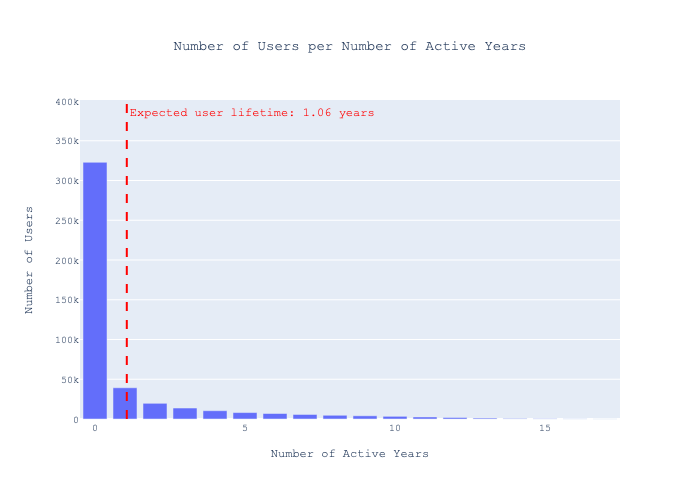
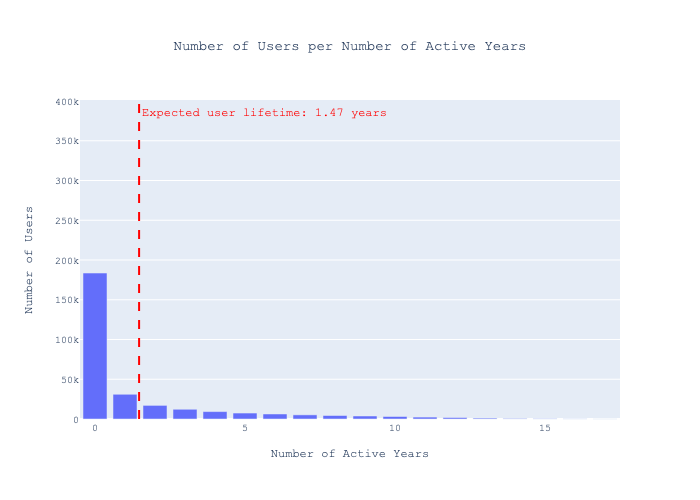
Adding new graphs that take into accound the filtering for the dead/deleted data

diff --git a/_posts/2024-04-02-hn-part-1.md b/_posts/2024-04-02-hn-part-1.md
@@ -6,6 +6,8 @@ published: true
 tags: strategy planning
 image: /assets/images/hn_part_1/author_cum_score_vs_median_score_logscale_lucky.png
 ---
+*UPDATE, 2024-04-09*: I've found it that I didn't filter out that `dead` and `deleted` stories and comments from my analysis. I've updated the analysis accordingly. While there are changes in the numbers and figures, the patterns and observations stand. I've also removed one table related to the second analysis (HN as a competitive platform): 1) it was confusing, 2) it didn't add new information, 3) and with the new data, the categorization bins needed rethinking.
+
 What is the status of the ~18-year-old HN?
 
 Instead of reading the stories, why not just dismantle HN and look under the hood?
@@ -85,7 +87,7 @@ To analyze this, I'll define the following metrics:
 2. Consistency: Determined by the total number of stories a user has posted.
 3. User's score: Instead of using karma, which has shown inconsistencies in HN data (I will discuss this in more detail laer), I'll use the sum of upvotes received by a user's stories as an alternative metric.
 
-Now, examining the correlation between a user's cumulative upvotes and their posting consistency reveals a strong relationship, with an $$ R^{2}=0.78 $$.
+Now, examining the correlation between a user's cumulative upvotes and their posting consistency reveals a strong relationship, with an $$ R^{2}=0.796 $$.
 
 ![nb_of_stories_vs_author_total_score.png](/assets/images/hn_part_1/nb_of_stories_vs_author_total_score.png)
 
@@ -106,13 +108,13 @@ Here's what we can discern:
 2. For scores beyond 1000:
    - Attaining higher scores, especially the top scores, is predominantly a result of sharing a higher number of stories.
 
-While this visual representation is compelling, it's essential to approach it with caution. To further quantify these observations, I categorized the data into three ranges—low, medium, and high—for each dimension and calculated the normalized frequencies as shown in the table below.
+<!-- While this visual representation is compelling, it's essential to approach it with caution. To further quantify these observations, I categorized the data into three ranges—low, medium, and high—for each dimension and calculated the normalized frequencies as shown in the table below.
 
 ![The choice of the bins, for each dimension, was based on the same log jumps: 0, 100, 10K, inf](/assets/images/hn_part_1/Screenshot_2024-04-02_at_08.55.40.png)
 
 The categorization was based on logarithmic intervals: 0, 100, 10K, and beyond.
 
-In the high score category, the data reveals that most users with high scores have achieved this with a medium-to-high number of stories, typically of low impact.
+In the high score category, the data reveals that most users with high scores have achieved this with a medium-to-high number of stories, typically of low impact. -->
 
 *Thus, the data supports the conclusion that for those aiming to "win" at HN, consistent story sharing is the most effective strategy.*
 
